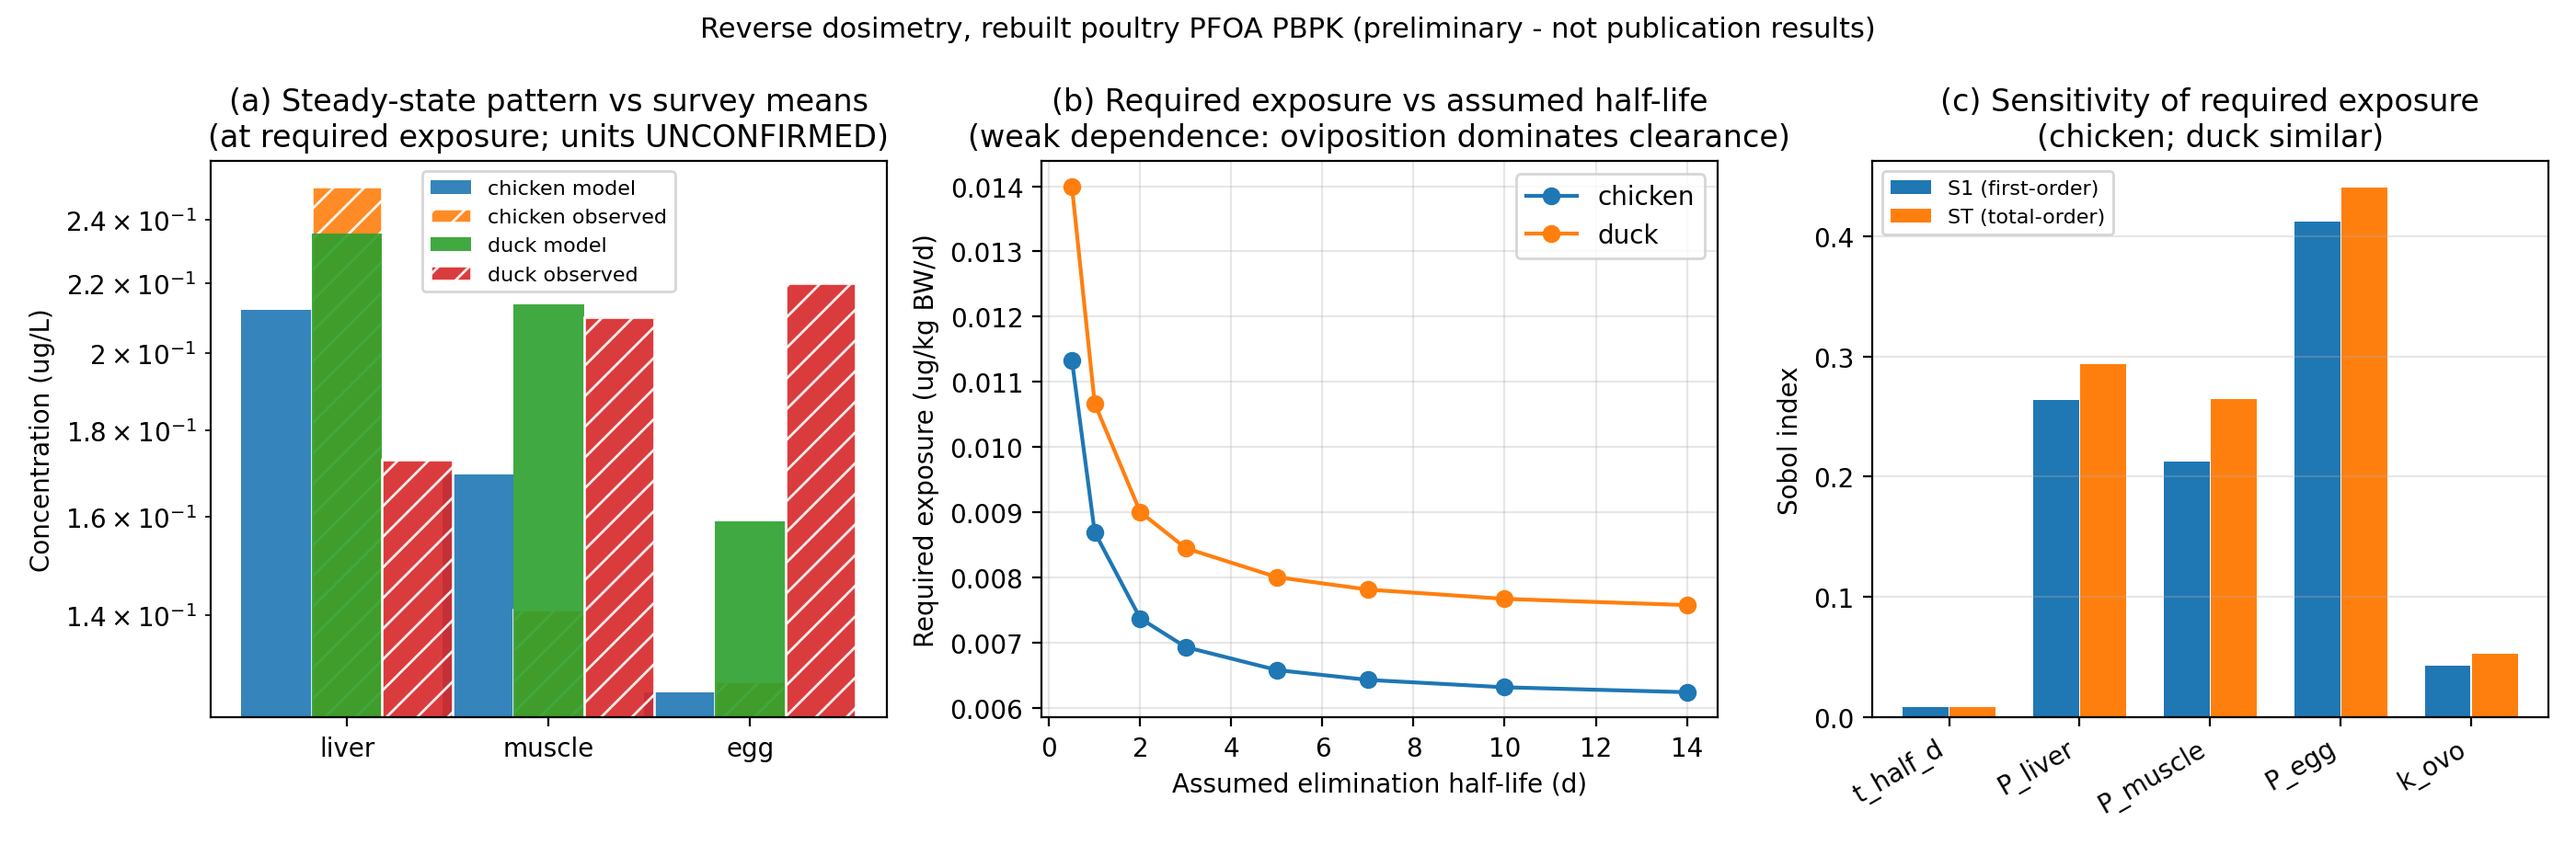
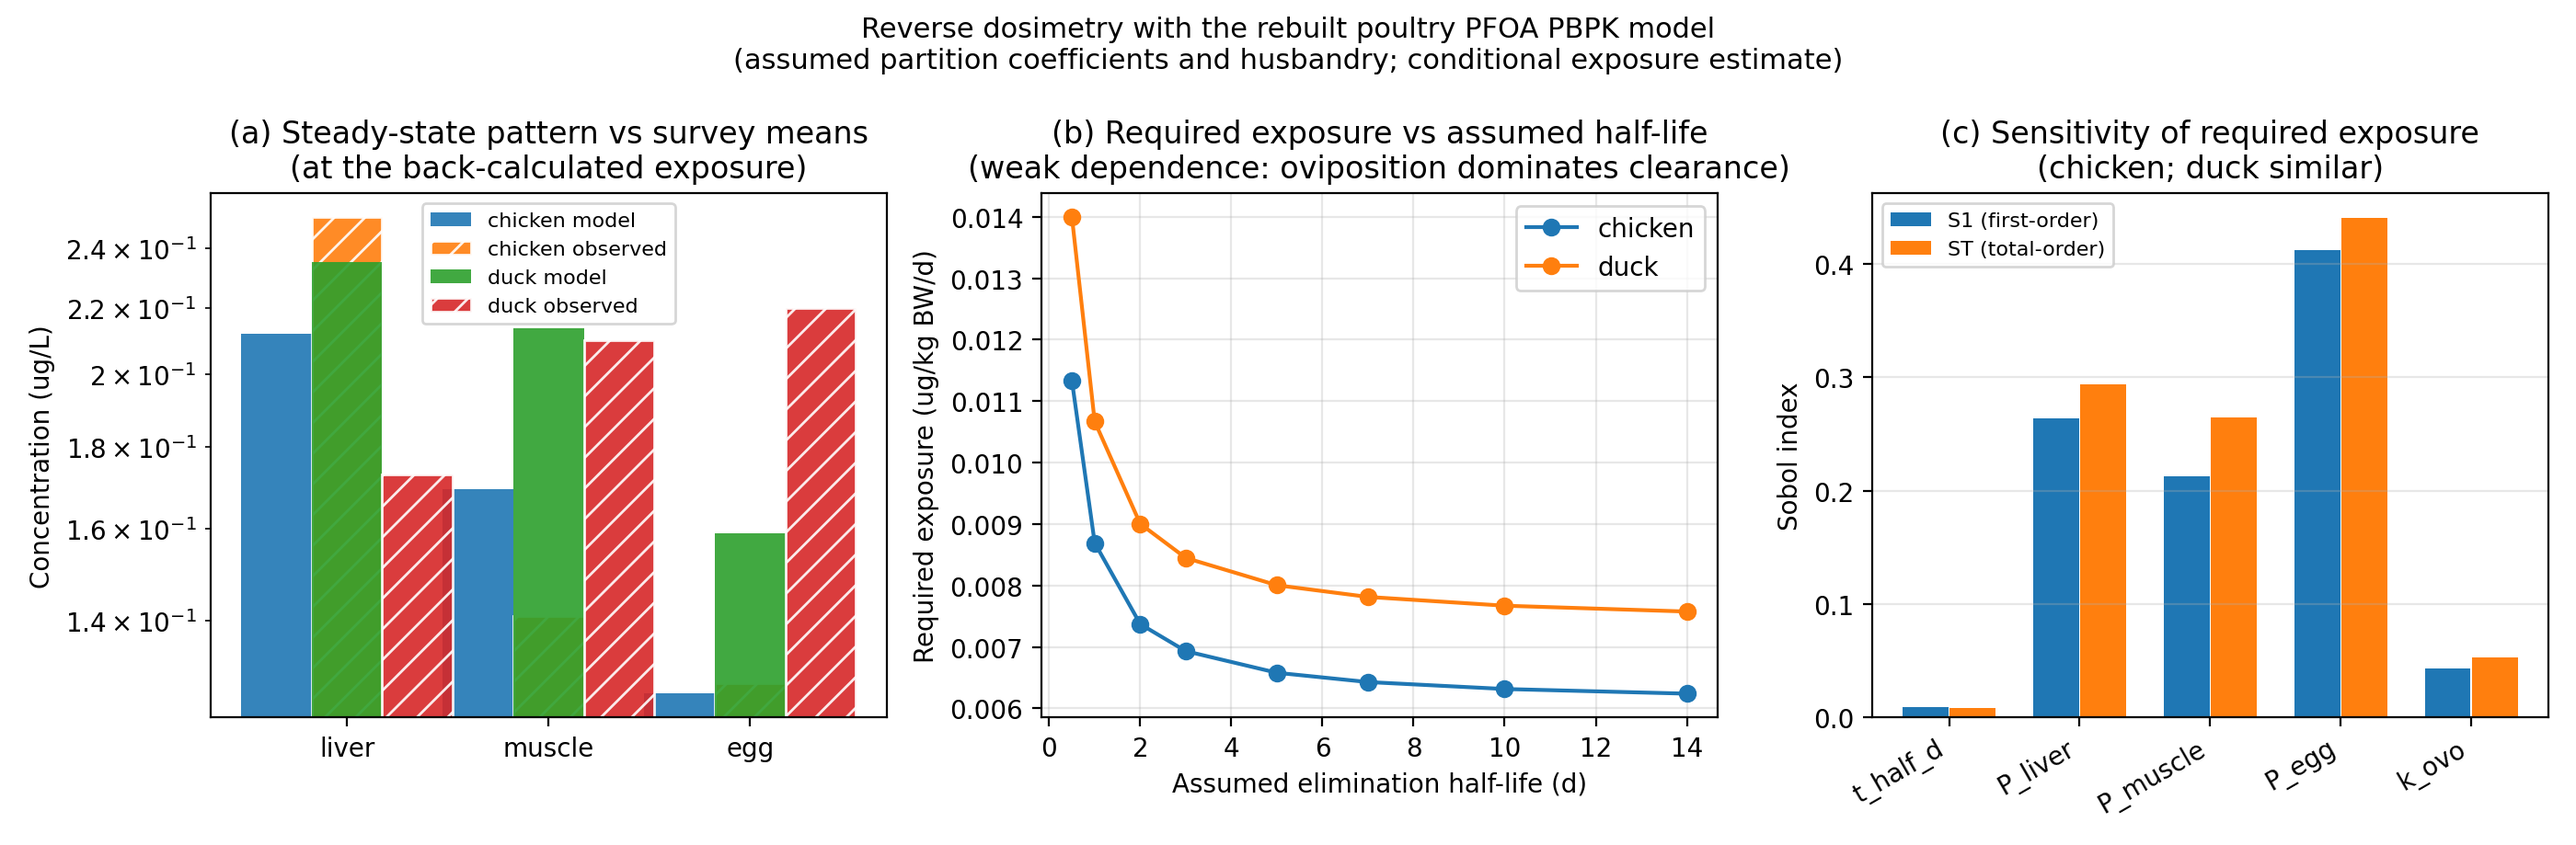
Submission-facing figure labels; no numerical changes
Figure titles/suptitles cleaned for the revised manuscript (conditional
exposure framing); results JSON/CSV byte-identical apart from timestamps.

diff --git a/rebuilt/reverse_dosimetry.py b/rebuilt/reverse_dosimetry.py
@@ -326,7 +326,7 @@ def main() -> None:
     ax.set_xticks(np.arange(len(tissues)), tissues)
     ax.set_ylabel("Concentration (ug/L)")
     ax.set_yscale("log")
-    ax.set_title("(a) Steady-state pattern vs survey means\n(at required exposure; units UNCONFIRMED)")
+    ax.set_title("(a) Steady-state pattern vs survey means\n(at the back-calculated exposure)")
     ax.legend(fontsize=8)
     ax.grid(alpha=0.3, axis="y")
 
@@ -355,7 +355,8 @@ def main() -> None:
     ax.legend(fontsize=8)
     ax.grid(alpha=0.3, axis="y")
 
-    fig.suptitle("Reverse dosimetry, rebuilt poultry PFOA PBPK (preliminary - not publication results)",
+    fig.suptitle("Reverse dosimetry with the rebuilt poultry PFOA PBPK model\n"
+                 "(assumed partition coefficients and husbandry; conditional exposure estimate)",
                  fontsize=11)
     fig.tight_layout()
     fig_path = OUT / "reverse_dosimetry_summary.png"

diff --git a/rebuilt/run_rebuilt_demo.py b/rebuilt/run_rebuilt_demo.py
@@ -130,9 +130,8 @@ def main() -> None:
         ax.set_ylabel("Concentration (µg/L)")
         ax.grid(alpha=0.3)
         ax.legend(fontsize=7, frameon=False)
-    fig.suptitle("Rebuilt flow-limited PBPK model — legacy 7-day scenario "
-                 "(mass-balance verified; units UNCONFIRMED; not publication results)",
-                 fontsize=11)
+    fig.suptitle("Rebuilt flow-limited PBPK model — legacy 7-day scenario diagnostic\n"
+                 "(mass-balance verified; see Results for interpretation)", fontsize=11)
     fig.tight_layout()
     fig_path = OUT / "rebuilt_demo_chicken_duck.png"
     fig.savefig(fig_path, dpi=200)
